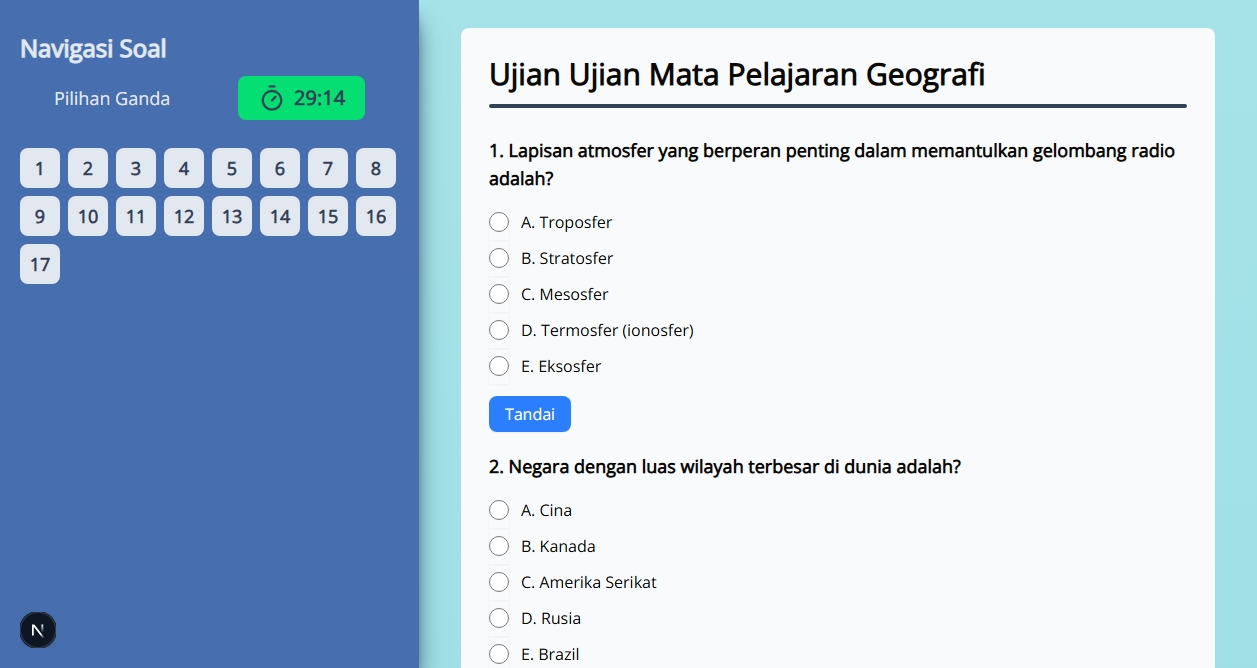
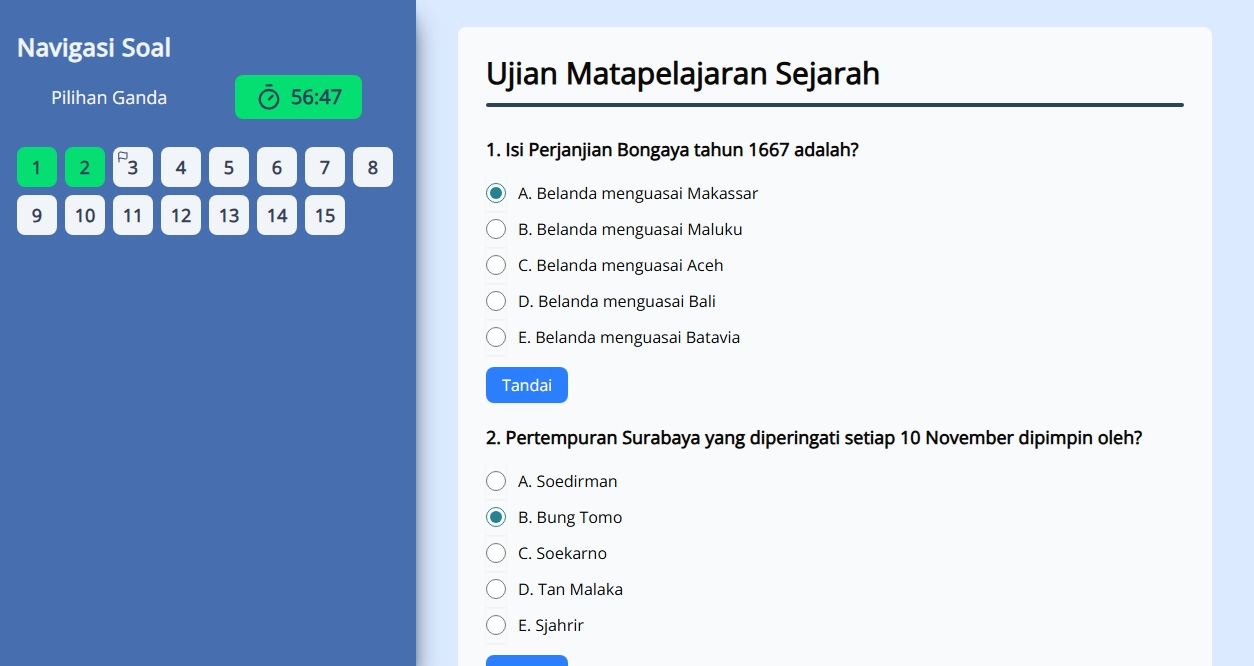
fix(berhasil untuk memperbaiki bug saat ujian telat): :bug:

diff --git a/src/app/(pages)/Teacher/dashboard/page.tsx b/src/app/(pages)/Teacher/dashboard/page.tsx
@@ -19,6 +19,7 @@ import { useGetIdUsers } from "@/store/useGetIdUsers/state";
 import { useGetDataUsers } from "@/store/useGetDataUsers/state";
 import MainContent from "@/layout/mainContent/content";
 import { BarChart3, ClipboardCheck, Layers } from "lucide-react";
+import { useManageDataExams } from "@/app/hooks/getManageDataExams";
 
 export default function Teacher() {
   const [dashboardButton, setDashboardButton] = useState({
@@ -29,7 +30,7 @@ export default function Teacher() {
   });
   const getidTeacher = useGetIdUsers((state) => state.idUser);
   const dataUserTeacher = useGetDataUsers((state) => state.dataUsers);
-  const [dataManageExams, setDataManageExams] = useState<string[]>([]);
+  const manageDataExams = useManageDataExams(getidTeacher);
   const dataStudentExams = getResultExamDataStudent(getidTeacher);
 
   function handleClickItem(event: string) {
@@ -42,105 +43,18 @@ export default function Teacher() {
   }
 
   const jumlahSiswa = new Set(
-    dataManageExams.flatMap((a: any) => a.lengthStudent),
+    manageDataExams.flatMap((a: any) => a.lengthStudent),
   );
 
-  const averageValueExam = dataManageExams
+  const averageValueExam = manageDataExams
     ?.flatMap((item: any) => item.hasil_ujian)
     .filter((a: string) => a !== "pending" && a !== "telat")
     .map(Number)
     .reduce((acc: number, cur: number) => acc + cur, 0);
 
-  useEffect(() => {
-    if (!getidTeacher) return;
-    async function getDataManageExams() {
-      const [
-        { data: datasManageExams, error: errorDatasManageExams },
-        { data: isCompleteExam, error: errorIsCompleteExam },
-        { data: lengthStudent, error: errorLengthStudent },
-      ] = await Promise.all([
-        supabase
-          .from("managed_exams")
-          .select("*, exams(nama_ujian)")
-          .eq("id_Teacher", getidTeacher),
-        supabase
-          .from("history-exam-student")
-          .select(
-            "exam_id,student_id,kelas,hasil_ujian,status_exam,exams(idTeacher)",
-          )
-          .eq("exams.idTeacher", getidTeacher),
-        supabase.from("account-student").select("classes,idStudent"),
-      ]);
-
-      if (errorDatasManageExams || errorIsCompleteExam || errorLengthStudent) {
-        console.log("data error ditampilkan");
-      } else {
-        const filterNull = isCompleteExam?.filter(
-          (isNull: any) => isNull.exams !== null,
-        );
-        const completeExams = filterNull.reduce((acc: any, cur: any) => {
-          const found = acc.find(
-            (item: { kelas: string }) => item.kelas === cur.kelas,
-          );
-          if (!found) {
-            acc.push({
-              kelas: cur.kelas,
-              exam_id: [cur.exam_id],
-              student_id: [cur.student_id],
-              hasil_ujian: [cur.hasil_ujian],
-            });
-          } else {
-            found.student_id.push(cur.student_id);
-            found.exam_id.push(cur.exam_id);
-            found.hasil_ujian.push(cur.hasil_ujian);
-          }
-          return acc;
-        }, []);
-
-        const totalStudent = lengthStudent.reduce((acc: any, cur: any) => {
-          const foundClass = acc.find(
-            (item: { classes: string }) => item.classes === cur.classes,
-          );
-          if (!foundClass) {
-            acc.push({
-              classes: cur.classes,
-              idStudent: [cur.idStudent],
-            });
-          } else {
-            foundClass.idStudent.push(cur.idStudent);
-          }
-          return acc;
-        }, []);
-
-        const mergedData = datasManageExams?.map((item: any) => {
-          const findsExams = completeExams.find(
-            (f: any) =>
-              f.kelas === item.kelas && f.exam_id.includes(item.idExams),
-          );
-
-          const studentCompleteExams = findsExams?.student_id.filter(
-            (_: any, i: number) => findsExams.exam_id[i] === item.idExams,
-          );
-
-          const findStudent = totalStudent.find(
-            (f: any) => f.classes === item.kelas,
-          );
-          return {
-            ...item,
-            lengthStudent: findStudent?.idStudent ?? [],
-            lengthStudentCompleteExams: studentCompleteExams,
-            hasil_ujian: findsExams?.hasil_ujian ?? [],
-          };
-        });
-        setDataManageExams(mergedData);
-      }
-    }
-    getDataManageExams();
-  }, [getidTeacher]);
-
   return (
     <MainContent>
-      {dataManageExams.length > 0 ? (
+      {manageDataExams.length > 0 ? (
         <div>
           <HeaderDasboard
             user="Pengajar"
@@ -155,7 +69,7 @@ export default function Teacher() {
               <div className="bg-[#476EAE] rounded-md p-4 sm:basis-[30%] lg:basis-1/5 lg:p-5">
                 <ClipboardCheck className="size-9 mx-auto" />
                 <span className="text-3xl font-bold block py-2 sm:text-4xl">
-                  {dataManageExams.length || "0"}
+                  {manageDataExams.length || "0"}
                 </span>
                 <h1 className="font-semibold">Ujian Dibuat</h1>
               </div>
@@ -192,8 +106,8 @@ export default function Teacher() {
                       </TableRow>
                     </TableHeader>
                     <TableBody>
-                      {dataManageExams.length > 0 ? (
-                        dataManageExams.map((item: any, i: number) => (
+                      {manageDataExams.length > 0 ? (
+                        manageDataExams.map((item: any, i: number) => (
                           <TableRow key={i}>
                             <TableCell>{i + 1}</TableCell>
                             <TableCell>{item.exams?.nama_ujian}</TableCell>

diff --git a/src/app/hooks/getManageDataExams.ts b/src/app/hooks/getManageDataExams.ts
@@ -1,0 +1,95 @@
+import { supabase } from "@/lib/supabase/data";
+import { useEffect, useState } from "react";
+
+export function useManageDataExams(getidTeacher: string) {
+  const [dataManageExams, setDataManageExams] = useState<string[]>([]);
+
+  useEffect(() => {
+    if (!getidTeacher) return;
+    async function getDataManageExams() {
+      const [
+        { data: datasManageExams, error: errorDatasManageExams },
+        { data: isCompleteExam, error: errorIsCompleteExam },
+        { data: lengthStudent, error: errorLengthStudent },
+      ] = await Promise.all([
+        supabase
+          .from("managed_exams")
+          .select("*, exams(nama_ujian)")
+          .eq("id_Teacher", getidTeacher),
+        supabase
+          .from("history-exam-student")
+          .select(
+            "exam_id,student_id,kelas,hasil_ujian,status_exam,exams(idTeacher)",
+          )
+          .eq("exams.idTeacher", getidTeacher),
+        supabase.from("account-student").select("classes,idStudent"),
+      ]);
+
+      if (errorDatasManageExams || errorIsCompleteExam || errorLengthStudent) {
+        console.log("data error ditampilkan");
+      } else {
+        const filterNull = isCompleteExam?.filter(
+          (isNull: any) => isNull.exams !== null,
+        );
+        const completeExams = filterNull.reduce((acc: any, cur: any) => {
+          const found = acc.find(
+            (item: { kelas: string }) => item.kelas === cur.kelas,
+          );
+          if (!found) {
+            acc.push({
+              kelas: cur.kelas,
+              exam_id: [cur.exam_id],
+              student_id: [cur.student_id],
+              hasil_ujian: [cur.hasil_ujian],
+            });
+          } else {
+            found.student_id.push(cur.student_id);
+            found.exam_id.push(cur.exam_id);
+            found.hasil_ujian.push(cur.hasil_ujian);
+          }
+          return acc;
+        }, []);
+
+        const totalStudent = lengthStudent.reduce((acc: any, cur: any) => {
+          const foundClass = acc.find(
+            (item: { classes: string }) => item.classes === cur.classes,
+          );
+          if (!foundClass) {
+            acc.push({
+              classes: cur.classes,
+              idStudent: [cur.idStudent],
+            });
+          } else {
+            foundClass.idStudent.push(cur.idStudent);
+          }
+          return acc;
+        }, []);
+
+        const mergedData = datasManageExams?.map((item: any) => {
+          const findsExams = completeExams.find(
+            (f: any) =>
+              f.kelas === item.kelas && f.exam_id.includes(item.idExams),
+          );
+
+          const studentCompleteExams = findsExams?.student_id.filter(
+            (_: any, i: number) => findsExams.exam_id[i] === item.idExams,
+          );
+
+          const findStudent = totalStudent.find(
+            (f: any) => f.classes === item.kelas,
+          );
+          return {
+            ...item,
+            lengthStudent: findStudent?.idStudent ?? [],
+            lengthStudentCompleteExams: studentCompleteExams,
+            hasil_ujian: findsExams?.hasil_ujian ?? [],
+          };
+        });
+        setDataManageExams(mergedData);
+      }
+    }
+    getDataManageExams();
+  }, [getidTeacher]);
+
+  return dataManageExams;
+}

diff --git a/src/components/global/dialogTipeAkun/content.tsx b/src/components/global/dialogTipeAkun/content.tsx
@@ -8,6 +8,14 @@ import {
   DialogTitle,
 } from "@/components/ui/dialog";
 import { Input } from "@/components/ui/input";
+import {
+  Select,
+  SelectContent,
+  SelectGroup,
+  SelectItem,
+  SelectTrigger,
+  SelectValue,
+} from "@/components/ui/select";
 import { supabase } from "@/lib/supabase/data";
 import { useGetIdUsers } from "@/store/useGetIdUsers/state";
 import { useEffect, useState } from "react";
@@ -34,11 +42,11 @@ export default function DialogFormAddDataUser({
   async function handleAddDataUser(event: React.FormEvent<HTMLFormElement>) {
     event.preventDefault();
     const formData = new FormData(event.currentTarget);
-    const resultPayload = Object.fromEntries(formData.entries());
+    const resultInputPayload = Object.fromEntries(formData.entries());
 
     const { error } = await supabase
       .from("account-student")
-      .update(resultPayload)
+      .update(resultInputPayload)
       .eq("idStudent", idUsers)
       .single();
 
@@ -70,7 +78,18 @@ export default function DialogFormAddDataUser({
               <label htmlFor="classes" className="mb-2 block">
                 Kelas
               </label>
-              <Input type="text" id="classes" name="classes" required />
+              <Select required name="classes">
+                <SelectTrigger className="w-full">
+                  <SelectValue placeholder="Pilih Kelas" />
+                </SelectTrigger>
+                <SelectContent>
+                  <SelectGroup>
+                    <SelectItem value="1A">1A</SelectItem>
+                    <SelectItem value="2B">2B</SelectItem>
+                    <SelectItem value="3A">3A</SelectItem>
+                  </SelectGroup>
+                </SelectContent>
+              </Select>
             </div>
             <div>
               <label htmlFor="nis" className="mb-2 block">

diff --git a/src/app/(pages)/Student/Dashboard/page.tsx b/src/app/(pages)/Student/Dashboard/page.tsx
@@ -96,43 +96,28 @@ export default function DashboardStudent() {
 
   async function lateExams(idUjian: number) {
     if (!getIdStudent) return;
-    const { data, error } = await supabase
+    const payload = {
+      created_at: new Date().toISOString(),
+      student_id: getIdStudent,
+      exam_id: Number(idUjian),
+      answer_student: null,
+      hasil_ujian: "telat",
+      status_exam: true,
+      kelas: dataStudent?.classes,
+    };
+
+    const { error: insertError } = await supabase
       .from("history-exam-student")
-      .select("hasil_ujian, exam_id")
-      .eq("hasil_ujian", "telat")
-      .eq("exam_id", idUjian)
-      .eq("student_id", getIdStudent);
-
-    if (error) {
-      console.error("ERROR SUPABASE:", error);
-      toast("❌ Gagal Ambil Data", {
-        description: "Terjadi kesalahan saat cek data",
+      .upsert(payload, {
+        onConflict: "student_id,exam_id",
       });
-      return;
-    } else if (data.length > 0) {
-      return;
+
+    if (insertError) {
+      toast("❌ Gagal Simpan Data", {
+        description: insertError.message,
+      });
     } else {
-      const payload = {
-        created_at: new Date().toISOString(),
-        student_id: getIdStudent,
-        exam_id: Number(idUjian),
-        answer_student: null,
-        hasil_ujian: "telat",
-        status_exam: true,
-        kelas: dataStudent?.classes,
-      };
-
-      const { error: insertError } = await supabase
-        .from("history-exam-student")
-        .insert(payload);
-
-      if (insertError) {
-        toast("❌ Gagal Simpan Data", {
-          description: insertError.message,
-        });
-      } else {
-        console.log("Berhasil insert data telat");
-      }
+      console.log("Berhasil insert data telat");
     }
   }
 

diff --git a/src/components/local/examComp/content.tsx b/src/components/local/examComp/content.tsx
@@ -315,9 +315,11 @@ export default function ExamsComponent() {
               }`
             } `}
           >
-            <div className="bg-slate-50 fixed h-screen shadow-xl shadow-slate-700 flex flex-col items-center text-slate-700 font-medium text-xl md:w-1/3">
+            <div className="bg-[#476EAE] fixed h-screen shadow-xl shadow-slate-700 flex flex-col items-center text-slate-100 font-medium text-xl md:w-1/3">
               <div className="mt-3 p-5">
-                <h1 className="text-2xl font-semibold">Navigasi Soal</h1>
+                <h1 className="text-2xl font-semibold tracking-wide">
+                  Navigasi Soal
+                </h1>
                 <div className="flex items-center justify-around mt-3">
                   <h2 className="text-lg font-medium">
                     {questionsExam?.tipe_ujian === "pg"
@@ -349,7 +351,7 @@ export default function ExamsComponent() {
                         className={`size-10 rounded-md flex items-center justify-center font-bold text-lg relative ${
                           isAnswerPg || isAnswerEssay
                             ? "bg-green-400"
-                            : "bg-slate-300"
+                            : "bg-slate-100"
                         }`}
                         key={i}
                       >

diff --git a/src/app/(pages)/Introduction/page.tsx b/src/app/(pages)/Introduction/page.tsx
@@ -136,7 +136,7 @@ export default function Introduction() {
               <CarouselContent className="max-h-60 sm:max-h-56 md:max-h-72 lg:max-h-96">
                 <CarouselItem className="flex items-center justify-center p-5">
                   <Image
-                    src="/img/beranda/dashboard.jpeg"
+                    src="/img/beranda/dashboardSiswa.jpeg"
                     alt="Dashboard Page"
                     width={500}
                     height={500}
@@ -145,7 +145,7 @@ export default function Introduction() {
                 </CarouselItem>
                 <CarouselItem className="flex items-center justify-center p-5">
                   <Image
-                    src="/img/beranda/profile.jpeg"
+                    src="/img/beranda/profileSiswa.jpeg"
                     alt="Profile Page"
                     width={500}
                     height={500}
